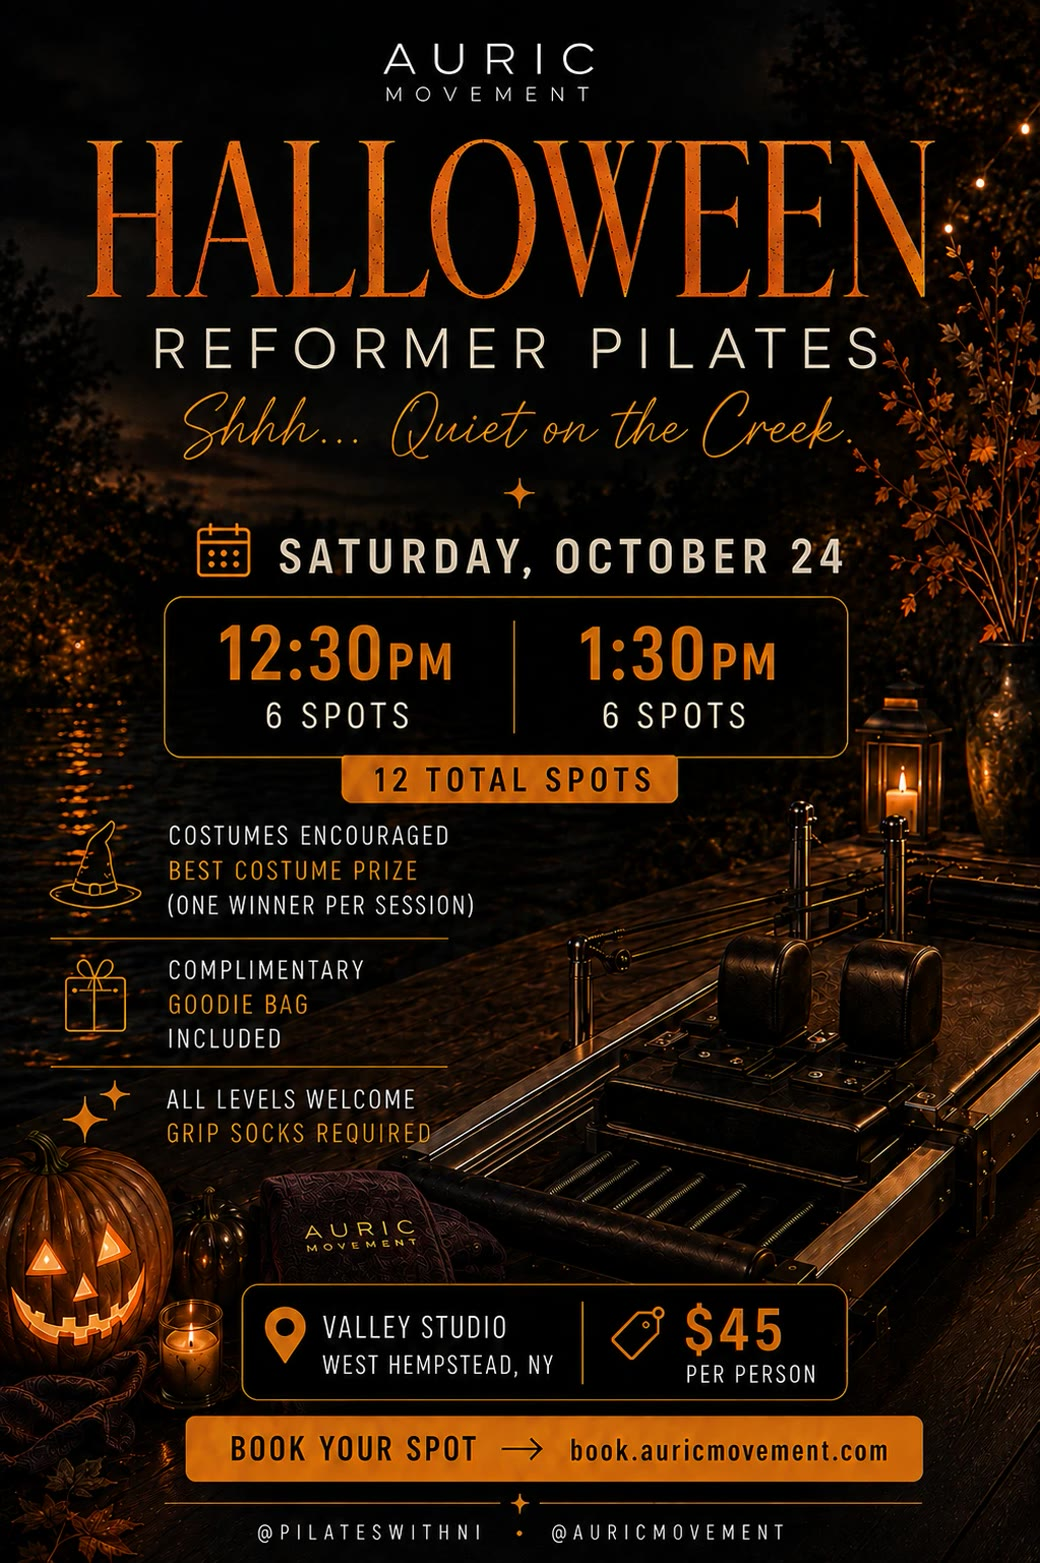
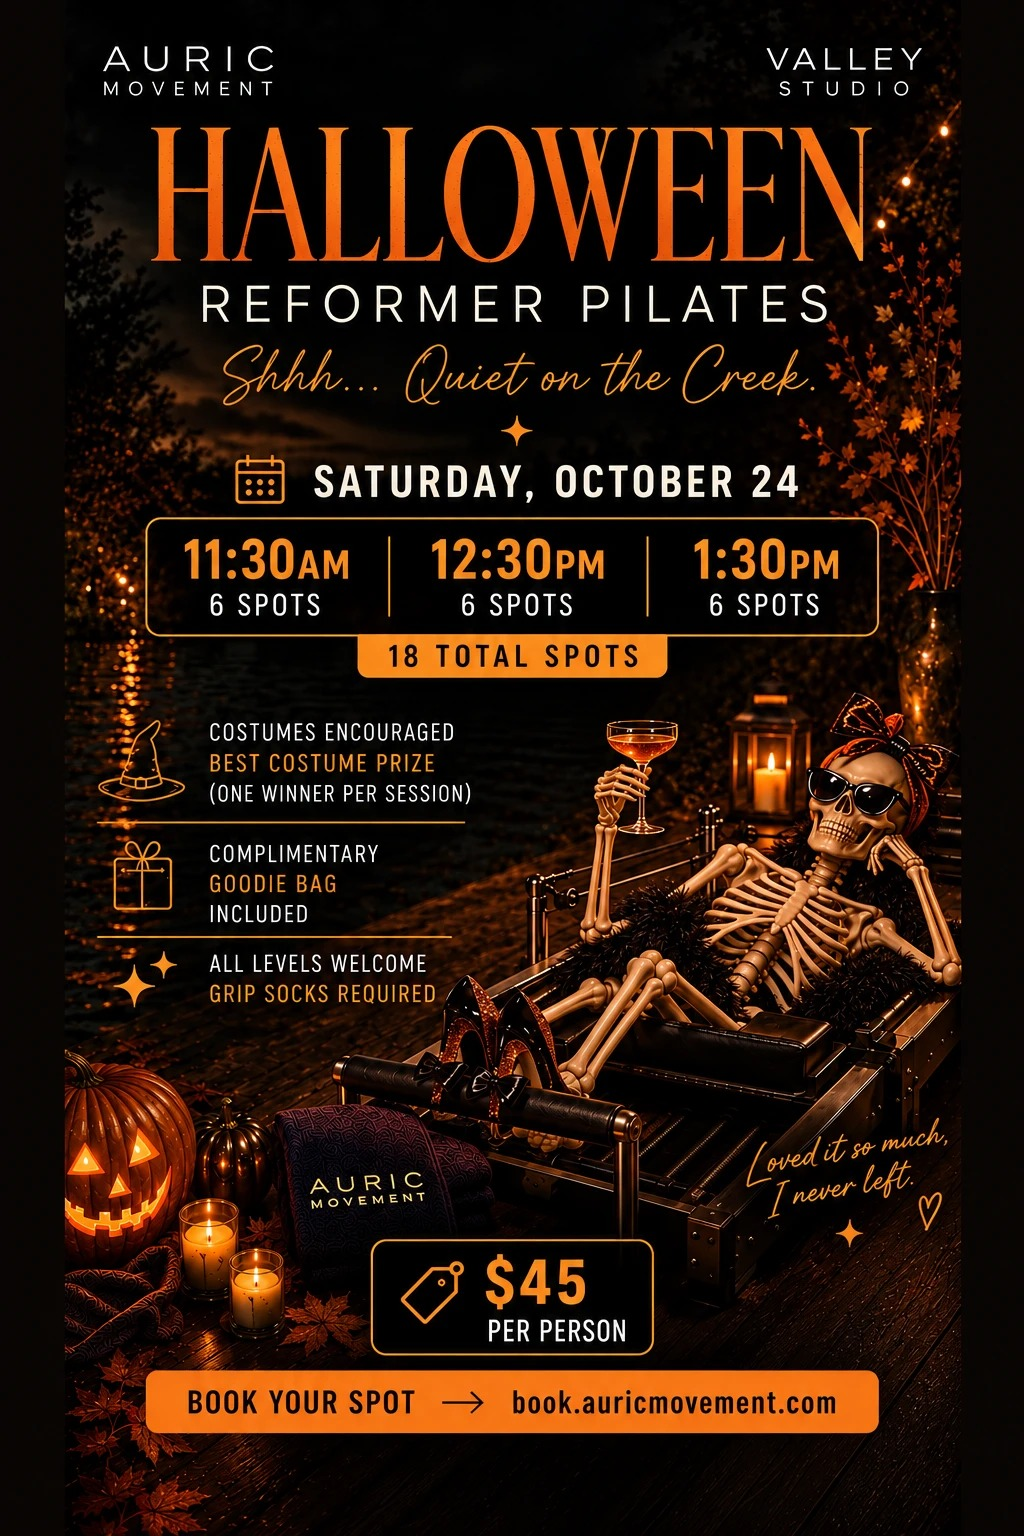
New Halloween flyer, and the card's alt text to match (#478)
Flyer replaced with the new artwork, saved as JPEG because the same file is
the og:image for /halloween-creek. Cache-buster bumped so a returning
visitor sees the new one.

The card's alt text still said "two sessions (12:30 & 1:30 PM)" — the last
place on the site that had not caught up with the 11:30 AM. That is the text
a screen reader reads out and what shows if the image fails to load.

Checked the flyer's claims against the site while swapping it: the best
costume prize, the goodie bag, grip socks being mandatory, $45 and 6 spots
a session are all already on the card, the booking overlay and the
confirmation email. Nothing on it promises something the site does not say.

Claude-Session: https://claude.ai/code/session_01C5C3S2hPFNYWpceXrqPaqV

diff --git a/halloween-creek/index.html b/halloween-creek/index.html
@@ -12,7 +12,7 @@
   <meta property="og:url" content="https://book.auricmovement.com/halloween-creek">
   <meta property="og:title" content="Shhh… Quiet on the Creek ✦ Halloween Reformer — Sat Oct 24">
   <meta property="og:description" content="A spooky-soft reformer session. Saturday, October 24 · three sessions (11:30 AM, 12:30 &amp; 1:30 PM) · Valley Studio, West Hempstead NY. $45 · 6 spots each · costumes encouraged.">
-  <meta property="og:image" content="https://book.auricmovement.com/halloween-creek-flyer.jpg?v=2">
+  <meta property="og:image" content="https://book.auricmovement.com/halloween-creek-flyer.jpg?v=3">
   <meta property="og:image:width" content="1040">
   <meta property="og:image:height" content="1563">
   <meta property="og:image:alt" content="Shhh… Quiet on the Creek — Halloween Reformer Pilates. Saturday October 24 at Valley Studio, West Hempstead NY. Three sessions 11:30 AM, 12:30 & 1:30 PM, $45, 6 spots each, costumes encouraged.">
@@ -21,7 +21,7 @@
   <meta name="twitter:card" content="summary_large_image">
   <meta name="twitter:title" content="Shhh… Quiet on the Creek ✦ Halloween Reformer — Sat Oct 24">
   <meta name="twitter:description" content="A spooky-soft reformer session. Saturday, October 24 · 11:30 AM, 12:30 &amp; 1:30 PM · Valley Studio, West Hempstead NY. $45 — 6 spots each.">
-  <meta name="twitter:image" content="https://book.auricmovement.com/halloween-creek-flyer.jpg?v=2">
+  <meta name="twitter:image" content="https://book.auricmovement.com/halloween-creek-flyer.jpg?v=3">
 
   <link rel="canonical" href="https://book.auricmovement.com/?book=halloween">
 

diff --git a/index.html b/index.html
@@ -3230,7 +3230,7 @@
       <button type="button" id="event-card-halloween" class="bq-event scroll-reveal" data-event-date="2026-10-24" data-event-name="Halloween Reformer Pilates" data-location="long-island">
         <div data-donor-badge-wrap="1" class="bq-donor-slot"></div>
         <div class="bq-event-photo">
-          <img src="halloween-creek-flyer.jpg?v=2" alt="Halloween Reformer Pilates &#8212; Shhh&hellip; Quiet on the Creek. Saturday, October 24 at Valley Studio, West Hempstead NY &#183; two sessions (12:30 &amp; 1:30 PM) &#183; $45, costumes encouraged" loading="lazy" decoding="async">
+          <img src="halloween-creek-flyer.jpg?v=3" alt="Halloween Reformer Pilates &#8212; Shhh&hellip; Quiet on the Creek. Saturday, October 24 at Valley Studio, West Hempstead NY &#183; three sessions (11:30 AM, 12:30 &amp; 1:30 PM) &#183; $45, costumes encouraged" loading="lazy" decoding="async">
         </div>
         <div class="bq-event-date">10.24.26 &#183; Halloween</div>
         <div class="bq-event-name">Halloween <em>Reformer Pilates</em></div>
